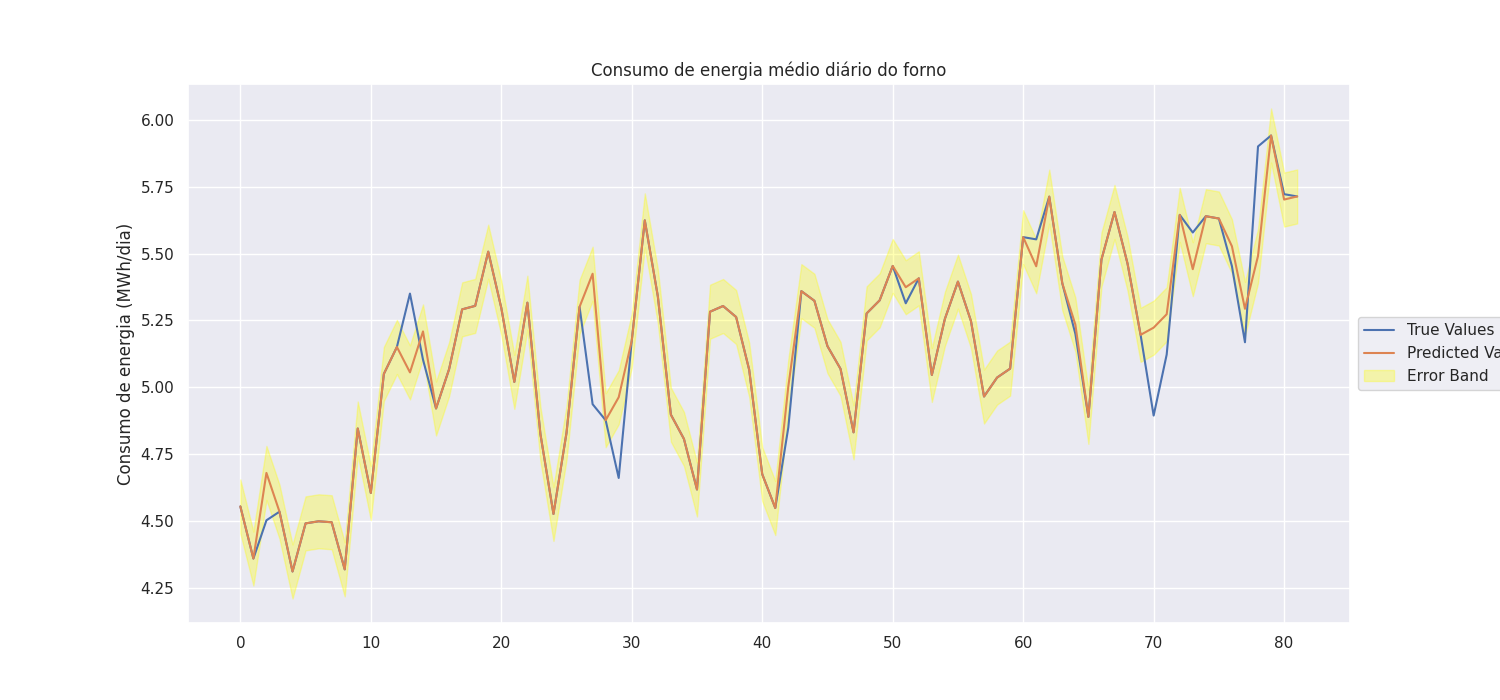
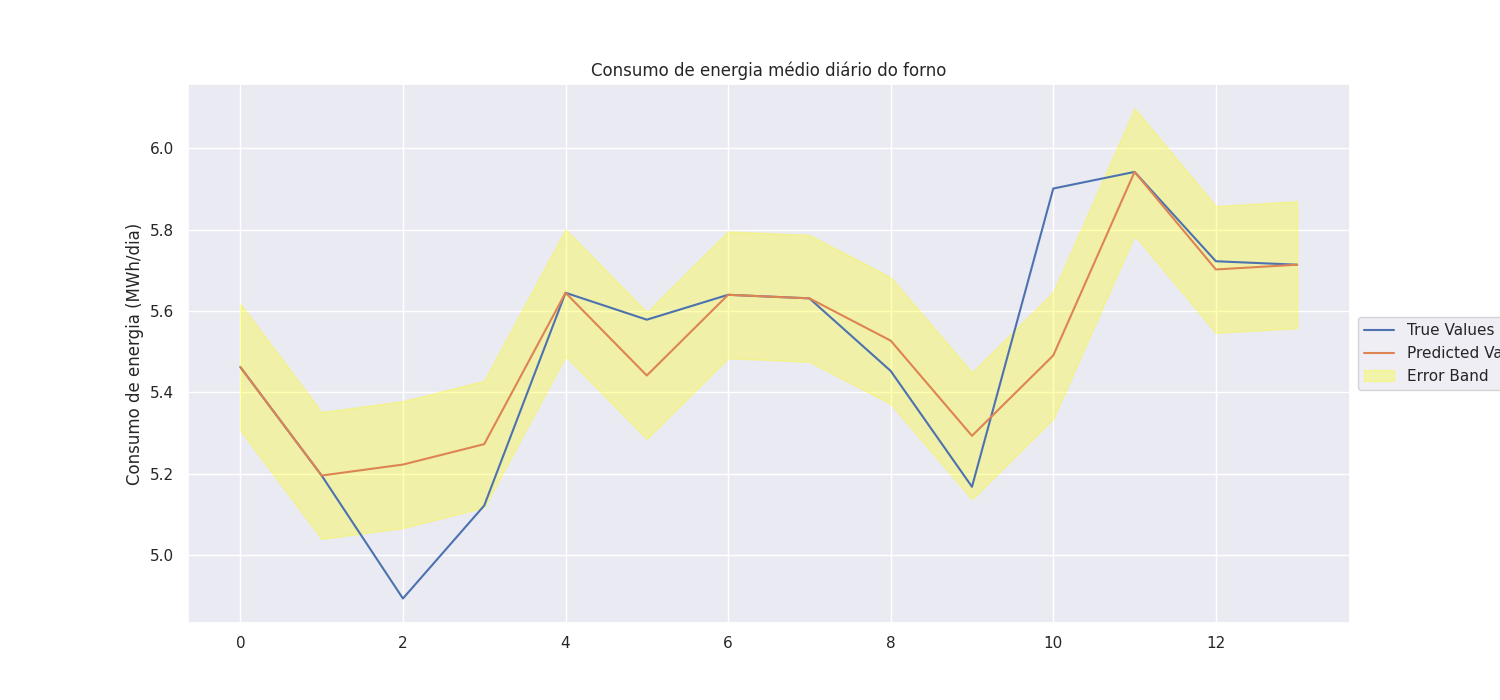
fix: best KNN_model.py

diff --git a/KNN_model.py b/KNN_model.py
@@ -5,7 +5,7 @@ from utils.preprocess import LoadData
 
 
 # comments to be saved in the history
-comments = 'best KNN model. Removed last month data before shuffle'
+comments = 'best KNN model. Removed last month data before shuffle. lagging all features.'
 load_data = LoadData()
 
 # load train/validation data
@@ -14,6 +14,8 @@ data = load_data.data
 # lagging columns
 lag_columns_list = ['medio_diario']*7
 lag_values = [1, 2, 3, 4, 5, 6, 7]
+lag_columns_list += load_data.features
+lag_values += [1]*len(load_data.features)
 
 # create the lagged columns in data
 data = load_data.create_lag_columns(data, lag_columns_list, lag_values)
